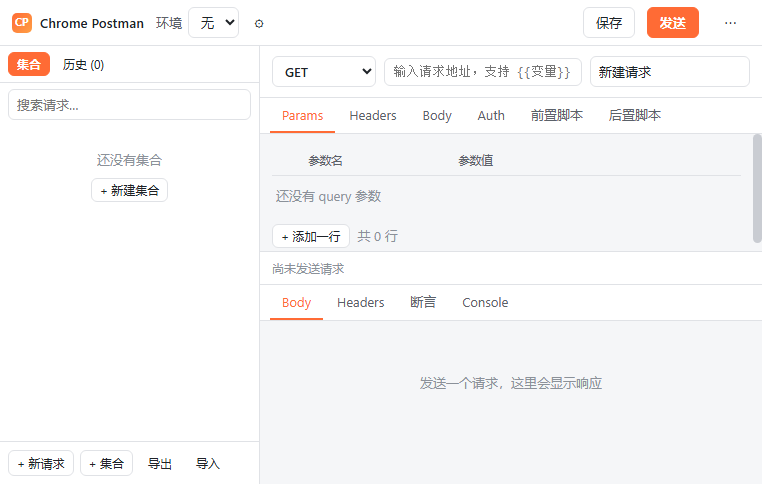
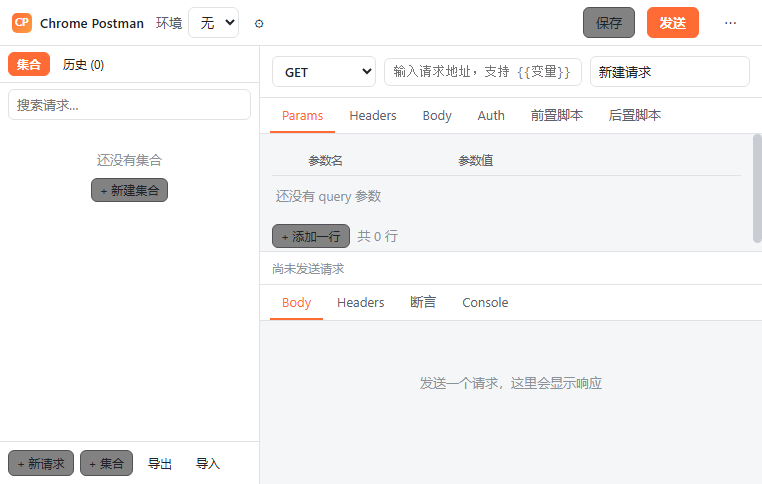
docs(v1.2.0): 补充实施状态、实机验证记录与使用说明
docs/DESIGN-v1.2.md
- 新增 6.6 节：5 个批次的实施状态、与初稿不一致之处、实现中发现并修掉的 6 个真 bug
- 修正「textarea + 手写行号槽」的描述 —— 实现用的是项目已有的 CodeMirror
- 记录批次 5 的实机验证输出（含 SPKI 与 Node 独立计算的交叉校验）
- 未决问题表标注已解决项（nativeMessaging 可选权限已实测）

README.md
- 能力表补上易用与证书两类新功能
- 命令表补上 test:native / test:proxy / 伴生程序自测
- 目录结构补上新增的核心层与 native-host/
- 已知限制补上「扩展无法关闭 TLS 证书校验」等三条

diff --git a/docs/DESIGN-v1.2.md b/docs/DESIGN-v1.2.md
@@ -1110,6 +1110,11 @@ export function lintVariables(text: string, scope: VariableScope): VariableRef[]
 - Body 的 raw 文本框无法在 textarea 里做富文本下划线 → 用**输入框下方的提示行**统一显示未定义变量清单（可点击定位到文本中的位置——通过 `setSelectionRange`）。
 - 如果将来换用 CodeMirror 之类，可以做行内波浪线，但那是另一个量级的工程量，不在第一版范围。
 
+> ⚠ **已实现**：Body 的 raw 编辑器实际上**已经是 CodeMirror**（项目原有依赖），
+> 所以变量缺失是用 `@codemirror/lint` 的诊断波浪线做的，不是"输入框下方的提示行"。
+> 提示行（`VariableHints.tsx`）保留了下来，用于展示**当前请求整体**缺失的变量清单 ——
+> 覆盖 URL / Params / Headers / Body / Auth 全部位置，这是行内波浪线做不到的。
+
 **"一键补全"有两种理解，都要做**：
 1. 点击未定义变量 → 从已有变量中选一个填进去
 2. 批量：URL 里所有未定义变量一次性列出，点一个处理一个
@@ -1215,20 +1220,40 @@ export interface ExecutionResult {
 
 **行号槽（gutter）实现方案**：
 
-textarea 本身不支持行号。两种做法：
-
-| 方案 | 做法 | 复杂度 | 推荐 |
-|---|---|---|---|
-| A. 绝对定位的 gutter div | textarea 左侧放一个 `<div>` 渲染行号，滚动时用 `onScroll` 同步 `scrollTop` | 低 | ✅ |
-| B. 换用 CodeMirror 6 | 功能强大（语法高亮、折叠、跳转） | 高（+300KB 依赖） | ❌ 第一版不做 |
-
-选 A。行号槽的宽度根据最大行号动态调整。
+> ⚠ **已实现，实际方案与初稿不同**（实现于 v1.2.0，以实现为准）。
+>
+> 初稿假设脚本编辑器是 `textarea`，所以要手写行号槽。下面是当时的对比：
+>
+> | 方案 | 做法 | 复杂度 | 初稿结论 |
+> |---|---|---|---|
+> | A. 绝对定位的 gutter div | textarea 左侧放一个 `<div>` 渲染行号，滚动时用 `onScroll` 同步 `scrollTop` | 低 | 当时选它 |
+> | B. 换用 CodeMirror 6 | 功能强大（语法高亮、折叠、跳转） | 高（+300KB 依赖） | 当时认为第一版不做 |
+>
+> **实现时发现选错了**：这个项目**本来就依赖** `@uiw/react-codemirror`（脚本编辑器早就是 CodeMirror 了），
+> 所以方案 B 的"依赖成本"是 0，而方案 A 要自己在 textarea 上手搓行号、滚动同步、错误标红三件事。
+>
+> 实际做法（全部用 CodeMirror 现成能力）：
+>
+> | 能力 | CodeMirror 的做法 |
+> |---|---|
+> | 行号 | `@codemirror/view` 内置 gutter，不用自己画 |
+> | 错误标红 | `@codemirror/lint` 的 `setDiagnostics(state, diagnostics)` |
+> | 跳转到出错行 | `view.dispatch({ selection: { anchor, head }, scrollIntoView: true })` |
+> | 输入补全 | `@codemirror/autocomplete` 的 `autocompletion({ override: [source] })` |
+>
+> 踩坑记录：`setDiagnostics` 在新版 `@codemirror/lint` 里**不是** StateEffect，
+> 而是 `(state, diagnostics) => TransactionSpec` 的工厂函数，必须写成
+> `view.dispatch(setDiagnostics(view.state, [...]))`，直接 `dispatch(setDiagnostics(...))` 会报错。
+>
+> **结论**：初稿"textarea + 手写行号槽"的判断是错的 ——
+> 它没有意识到项目已有 CodeMirror 依赖。判断"要不要引入新框架"之前，
+> 先确认现有依赖里有没有。
 
 **错误定位交互**：
 1. 脚本执行失败，Console 面板显示错误条目
 2. 错误条目上显示「第 3 行」的可点击标签
-3. 点击 → 自动切到对应标签页（前置/后置）→ 高亮该行 → 光标跳到该行（`textarea.setSelectionRange` + `focus()`）
-4. 高亮用临时 CSS class，3 秒后淡出
+3. 点击 → 自动切到对应标签页（前置/后置）→ CodeMirror `dispatch` 把光标跳到该行并滚动到可见区域
+4. 出错行由 `setDiagnostics` 持续标红（不用临时 CSS class）
 
 **已知边界**（要写进文档）：
 
@@ -1394,6 +1419,105 @@ public/manifest.json                  加 nativeMessaging（可选权限，见 5
 
 ---
 
+### 6.6 实施状态（v1.2.0 已全部实现）
+
+上表是**实施前的计划**。实际落地时做了几处调整，这里如实记录，避免后来人对着过期描述找文件。
+
+| 批次 | 状态 | 新增文件 | 单测 |
+|---|---|---|---|
+| 1 变量高亮 + 脚本行号 | ✅ 已实现 | `core/variable-lint.ts`、`core/script-error.ts` | 34 条 |
+| 2 智能补全 | ✅ 已实现 | `core/completion.ts`、`core/pm-api-catalog.ts`、`dashboard/components/SmartInput.tsx`、`dashboard/useCompletionSources.ts`、`dashboard/codemirror-completion.ts` | 28 条 |
+| 3 Postman v2.1 导入导出 | ✅ 已实现 | `core/postman-importer.ts`、`core/postman-exporter.ts` | 59 条 |
+| 4 耗时分段 | ✅ 已实现 | `core/timing.ts`、`dashboard/components/TimingPanel.tsx` | 13 条 |
+| 5 SSL + Native 伴生程序 | ✅ 已实现 | `core/http-sender.ts`、`core/native-bridge.ts`、`core/certificate.ts`、`background/native-host.ts`、`dashboard/components/SslSettings.tsx`、`native-host/*` | 48 条 |
+
+**单测总量：245 条 / 14 个文件**（v1.1.0 是 63 条）。
+
+#### 与初稿不一致的地方（以实现为准）
+
+| 项 | 初稿 | 实际 | 原因 |
+|---|---|---|---|
+| 脚本编辑器 | textarea + 手写行号槽 | **CodeMirror**（`setDiagnostics` + `dispatch`） | 项目本来就依赖 `@uiw/react-codemirror`，"引入成本"是 0 |
+| 补全落点 | `SmartTextArea.tsx` | `SmartInput.tsx` + CodeMirror 补全源 | 少写一个组件，且 CodeMirror 侧的补全体验更好 |
+| 核心层边界 | `native-bridge.ts` 里直接调 `chrome.runtime` | 拆成 `core/native-bridge.ts`（纯协议）+ `background/native-host.ts`（Chrome 适配器） | 核心层不许 import `chrome.*` 是本项目的硬规矩 |
+| multipart | 浏览器 `FormData` | **扩展侧手动序列化**（两条通道字节一致） | 走 native 通道时是 Node 在发，它不认识 `FormData`；不统一就会出现"浏览器能传文件、桥接就丢了" |
+| 权限 | `nativeMessaging` 放 `permissions` 还是 `optional_permissions` 待定 | **放 `optional_permissions`**（已实测 Chrome 接受，扩展加载正常） | 默认安装体验不受影响，只有真的要跳过校验的人才申请 |
+
+#### 实现过程中发现并修掉的真实 bug
+
+这些都不是"按设计写就行"的，是单测逼出来的：
+
+1. **补全排序失效**：`matchScore` 里「连续包含」永远被「缩写子序列」盖住 —— 因为连续子串必然也是子序列。重新排序为 精确/前缀 100 > 包含 70 > 缩写 50。
+2. **点号语境识别不出 `pm.res`**：正则要求末尾必须有点。改为「末尾有点」+「路径形式」两分支。
+3. **点号语境替换区间只覆盖 query**：会插成 `pm.pm.response`。改为覆盖整段路径。
+4. **`https://` 刚打完时补全永不触发**：word 为空导致直接返回 null。加「前一个字符是 `/` 或 `:`」特判。
+5. **API 清单与 SDK 实现不一致**：清单里的 `to.have.header` / `to.have.jsonBody` / `to.have.body` / `to.be.json` 这 4 条 SDK 根本没实现。**在 `pm-sdk.raw.js` 补上实现**（而不是删清单），并用 `tests/pm-api-catalog.test.ts` 把清单每条路径拿到沙箱真跑一遍 —— 改了 SDK 忘改清单会红。
+6. **`setDiagnostics` 用法错误**：新版 `@codemirror/lint` 里它不是 StateEffect，而是 `(state, diagnostics) => TransactionSpec`，必须 `view.dispatch(setDiagnostics(view.state, [...]))`。
+
+#### 仍然没做的事（明确不做）
+
+- ❌ 不做"假开关"：不能在扩展里捕获证书错误后伪造成功响应。
+- ❌ 不申请 `proxy` 权限，绝不修改用户代理设置。
+- ❌ 不自动修改系统信任库 —— 只给引导和命令，让用户自己决定、自己执行。
+- ❌ 不做 DNR 全局拦截，与"应用内拦截"的既有边界保持一致。
+
+#### 实机验证结果（批次 5 的验收标准）
+
+批次 5 的验收标准写的是「**实机验证**：Windows 装伴生程序 → 访问自签证书 HTTPS → 成功 + 证书体检信息正确 + 不安全模式有横幅」。
+这条已经真的跑过了，脚本是 `scripts/native-bridge-e2e.mjs`（可重复执行）：
+
+```
+[1/7] 测试变体扩展已就绪（nativeMessaging 提为必需权限）
+[2/7] 自签证书已生成
+[3/7] 自签 HTTPS 服务已启动：https://127.0.0.1:8766
+[4/7] Chrome 已启动：Chrome/156.0.8078.81
+[5/7] 扩展 ID：mjibjjikjdickpkgcedmlmjdmbedjhne
+[6/7] 伴生程序已注册（HKCU，无需管理员权限）
+
+=== NATIVE BRIDGE RESULT ===
+跳过校验 → 状态 : 200
+跳过校验 → 响应 : {"ok":true,"path":"/secure","via":"https-selfsigned"}
+跳过校验 → insecure 标记 : true
+严格校验 → 错误 : 本地桥接请求失败（SELF_SIGNED_CERT）：证书是自签名的（签发者与使用者相同）
+证书体检 → 颁发者 : localhost
+证书体检 → 自签名 : true
+证书体检 → SPKI : pgO6RA07p4m/P16okBTUfB+JI0cO+WOVjnIkOOsN5w8=
+
+PASS  桥接通道请求成功（跳过校验拿到 200）
+PASS  响应体来自 HTTPS 服务
+PASS  insecure 标记已置位（UI 会显示横幅）
+PASS  没有出现"静默降级"提示
+PASS  严格校验时因证书失败
+PASS  证书体检拿到了颁发者
+PASS  证书体检判定为自签名
+PASS  证书体检算出了 SPKI 指纹
+PASS  SPKI 指纹与 Node 独立计算一致
+```
+
+**这条链路里最有价值的一条是最后一条** —— SPKI 指纹必须和 Node 独立算出来的一致。
+如果算错了（比如误用了整张证书的哈希），参数看着像模像样，但 Chrome 会**静默不生效**，
+用户会以为"配了白名单就能用了"，其实一直没生效 —— 这类 bug 极难靠肉眼发现。
+
+**脚本怎么绕开了权限申请**：Chrome 的 `chrome.permissions.request()` 只能在真实用户手势里调用，
+自动化测试的合成手势不算数。所以脚本复制一份 `dist/` 当"测试变体"，
+把 `nativeMessaging` 从可选权限提成必需权限 —— 验证的是"装了伴生程序之后到底能不能用"，
+而不是"权限弹窗能不能点开"。
+
+**脚本会写注册表**：它往 `HKCU\Software\Google\Chrome\NativeMessagingHosts` 下写一个键，跑完自动删掉。
+想留着手动体验就加 `--keep-host`。
+
+#### 伴生程序自测
+
+`native-host/selftest.mjs` 是伴生程序自己的自测（31 项，全部打本地 127.0.0.1，不依赖外网）：
+
+```
+=== 结果：31 通过 / 0 失败 ===
+```
+
+它已经接进 CI —— 协议层的回归不该等到发版才发现。
+
+---
+
 ## 7. 验收标准汇总
 
 ### 通用（每批次都必须满足）
@@ -1515,12 +1639,12 @@ node scripts/probe-security-info.mjs --headful  # 有头模式（窗口挪到屏
 
 ## 9. 未决问题
 
-| 问题 | 影响 | 建议 |
-|---|---|---|
-| `nativeMessaging` 能否作为可选权限 | 决定扩展默认安装是否显示"启动本机程序"警告 | 实现批次 5 时实测 |
-| Postman 环境变量导入时，是新建环境还是合并到当前环境 | 影响导入 UX | 导入预览里让用户选 |
-| 是否支持 Postman 的 `prerequest`/`test` 事件里的多个脚本 | 低频 | 合并成一个脚本（用换行拼接） |
-| 耗时分段是否值得为它单独申请 `webRequest` | 已经因为诊断功能申请了 | 复用，零额外成本 |
+| 问题 | 影响 | 建议 | 状态 |
+|---|---|---|---|
+| `nativeMessaging` 能否作为可选权限 | 决定扩展默认安装是否显示"启动本机程序"警告 | 实现批次 5 时实测 | ✅ **已解决**：可以放在 `optional_permissions`，Chrome 正常加载扩展；权限只在用户点「授权并检测桥接程序」时才申请 |
+| Postman 环境变量导入时，是新建环境还是合并到当前环境 | 影响导入 UX | 导入预览里让用户选 | ✅ **已实现**：顶层 `variable[]` → 新建 Environment（往返不对称已用测试钉死） |
+| 是否支持 Postman 的 `prerequest`/`test` 事件里的多个脚本 | 低频 | 合并成一个脚本（用换行拼接） | ✅ **已实现**：合并 |
+| 耗时分段是否值得为它单独申请 `webRequest` | 已经因为诊断功能申请了 | 复用，零额外成本 | ✅ **已实现**：复用同一个可选权限 |
 
 ---
 
